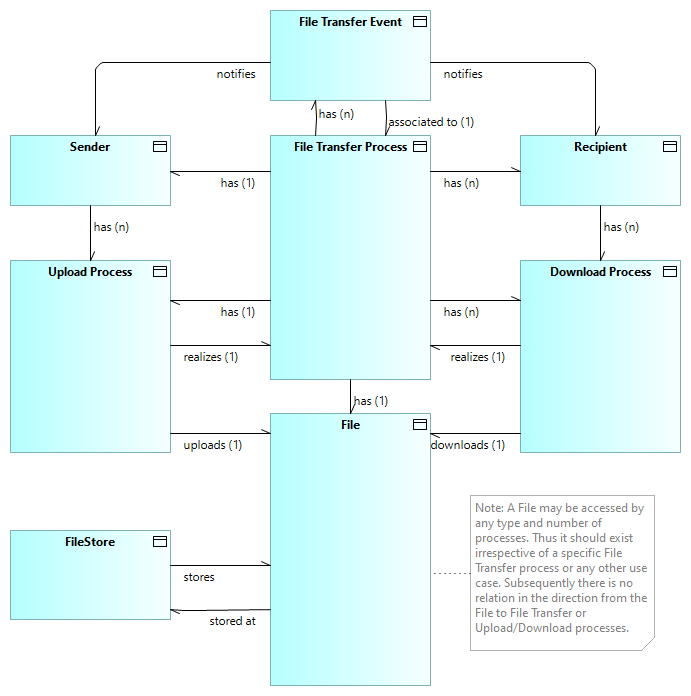
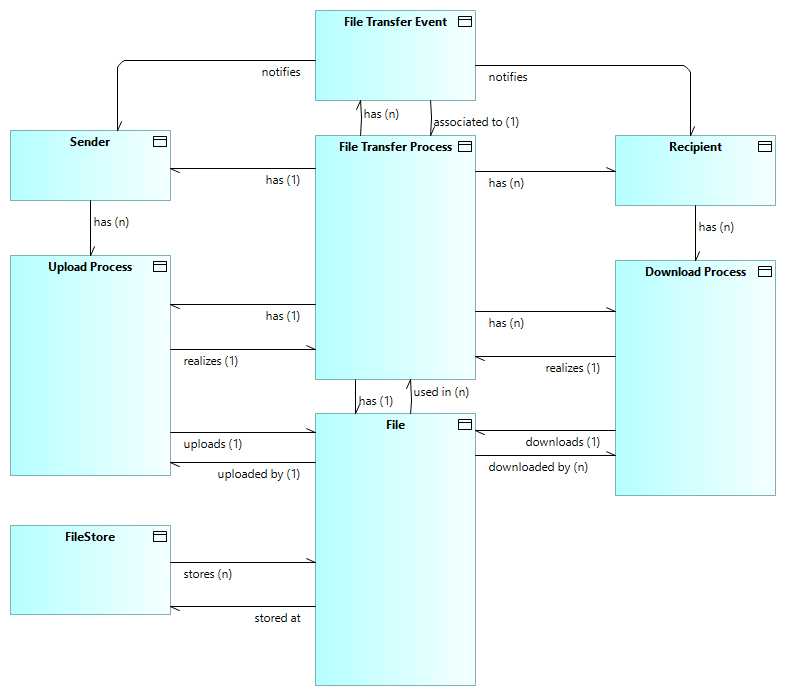
Updated concepts and capabilities chapters

diff --git a/content/broker/10. Concepts/_index.en.md b/content/broker/10. Concepts/_index.en.md
@@ -27,43 +27,45 @@ Explanation to the diagram:
 
 ## Conceptual information model
 
-A high level conceptual information model for Altinn 3 Broker is shown in the following figure:
+A high level conceptual information model for Altinn 3 Broker is shown in the below figure. This model is used as basis for the more detailed imformation model of Altinn Broker _Metadata Storage_.
 
 {{< figure src="./Altinn 3 Broker Metadata - basic, conceptual.png" title="Figure: Conceptual information model" alt="Alt-text">}}
 
 Explanation:
 
-* The overall File Transfer Process includes exactly one Upload Process by a Sender and one or more Download Processes by one or more Recipients.
-* A File Transfer considers one file only.
-* ... TBD
-
-
+* The overall File Transfer Process includes exactly one Upload Process by a Sender and one or more Download Processes corresponding to the number of Recipients.
+* Each File Transfer Process considers one File only. The same applies for each Upload Process and Download Process. 
+* The same File may be used in several File Transfer Processes and consequently in several Download Processes.
+* Only one Upload Process per File is considered. Note that if the same file is uploaded more than once, Altinn Broker will  consider the files as different and assign different identifiers.
+* Notifications about File Transfer Events are given to Senders and Recepients depending on subscription setup. E.g. recepients may be notified about new messages, and senders may be notified about delivery events. 
+* Each File Transfer Event relates to one File Transfer Process, and consequently only one File, however any number of events may occur for the same File Transfer Process.
 
 
 ## Terms
 
 The following table gives brief descriptions of the main terms used to describe
-Altinn 3 Broker. Also see <https://data.norge.no/concepts>.
+Altinn 3 Broker. Also see https://docs.altinn.studio/technology/terms/ and <https://data.norge.no/concepts>.
 
 | **Term**                       | **Explanation**                                                                                                                                                                                                                                          |
 |--------------------------------|----------------------------------------------------------------------------------------------------------------------------------------------------------------------------------------------------------------------------------------------------------|
 | Broker                         | A 'broker' facilitates transactions, negotiations, or agreements between two parties, such as buyers and sellers, or providers and consumers. |
-| Data Consumer                  | A 'data consumer' is an individual or system that uses data provided by data sources or services.                                                                                                                                                                                                                                                      |
+| Data Consumer                  | A 'data consumer' is an individual or system that uses data provided by data sources or services. Also see 'recepient.
 | Data Holder                    | ‘Data holder’ means a legal person, including public sector bodies and international organisations, or a natural person who is not a data subject with respect to the specific data in question, which, in accordance with applicable law, has the right to grant access to or to share certain personal data or non-personal data. |
-| Data Provider                  | A 'data provider' is an entity that supplies or grants access to data. |
+| Data Provider                  | A 'data provider' is an entity that supplies or grants access to data.  Also see 'sender. |
 | Document                       | A 'document' refers to any form of recorded content, whether in digital or paper format, used to communicate, store, or present information, ranging from text and images to diagrams and multimedia. It serves various purposes, including legal evidence, historical records, educational material, or business transactions, facilitating the sharing and preservation of knowledge.                                                                                                                                                                                                                                                      |
 | End user                       | An 'end user' is the final consumer of the services in questions, typically human users through a graphical user interface (GUI).  |
 | End user system                | An 'end user system' provides the services and user interface for end users. |
 | File                           | A digital container used to store, manage, and manipulate data on a computer system or network. It can consist of text, images, audio, video, or other types of data, and is typically organized within a file system that allows for easy retrieval and access. |
 | File transfer                  | The process of moving or copying data over a computer network or through data storage devices.                                                                                                                                                                                                                                                      |
-| File transfer broker           | A 'File transfer broker' is a system or service that acts as an intermediary to facilitate the secure and efficient exchange of files between different parties or systems. |
+| File transfer broker           | A 'file transfer broker' is a system or service that acts as an intermediary to facilitate the secure and efficient exchange of files between different parties or systems. Also see 'message broker'. |
 | Intermediary                   | An 'intermediary' is an entity that acts as a middleman or mediator between two parties in a transaction or communication process. |
-| Managed File Transfer (MFT)    | 'Managed File Transfer' is a solution or service that facilitates and manages the secure transfer of data between systems. It provides a more reliable and secure alternative to traditional file transfer methods, by ensuring the encryption of data in transit and at rest, and offering better management and monitoring capabilities. |
-| Message Broker                 | A solution or service that enables communication between different applications by translating and routing messages. |
+| Managed File Transfer (MFT)    | 'Managed file transfer' is a solution or service that facilitates and manages the secure transfer of data between systems. It provides a more reliable and secure alternative to traditional file transfer methods, by ensuring the encryption of data in transit and at rest, and offering better management and monitoring capabilities. |
+| Message Broker                 | A ‘message broker’ is a system or service that acts as an intermediary to facilitate message exchange between different parties or systems. |
 | On-premise                     | 'On-premise' means installation and operation of software and technology infrastructure directly within an organization's physical facilities, rather than hosted remotely or in the cloud. |
 | Process                        | A series of actions or steps taken to achieve a particular end.                                                                                                                                                                                                                                                      |
-| Recipient                      | An individual or entity that receives a message, package, or service from a sender. |
-| Sender                         | An individual or entity that initiates the transmission of a message or data to one or more recipients. |
+| Recipient                      | An individual or entity that receives a message, package, or service from a sender. Also see Data Consumer. |
+| Sender                         | An individual or entity that initiates the transmission of a message or data to one or more recipients. Also see Data Provider. |
+| Service Owner                  | In the context of Altinn, a 'service owner' refers to an entity responsible for the development, management, and maintenance of a particular service within the Altinn platform.  |
 | User Journey                   | A 'user journey' is a visual or narrative representation of a user's interactions with a product or service from start to finish. |
 
 <!--

diff --git a/content/broker/20. Capabilities/_index.en.md b/content/broker/20. Capabilities/_index.en.md
@@ -10,12 +10,17 @@ weight: 15
 
 ## Value stream analysis
 
-Description TBD...
+The following value stream model indicates how the required capabilities and features of Altinn Broker matches the needs and requirements of the users, i.e. data providers (senders) and data consumers (recepients) respectively.
 
+<!--
 [{{< figure src="./image3.png" title="Figure 3: ..." alt="Alt-text">}}](https://altinn.github.io/ark/models/archi-all/?view=id-10895c7502b84511bb272d77e91ecb00)
+-->
 
+[{{< figure src="./Altinn 3 Broker value streams, high level.png" title="Figure 3: ..." alt="Alt-text">}}](https://altinn.github.io/ark/models/archi-all/?view=id-10895c7502b84511bb272d77e91ecb00)
 
-## High-level summary of capabilities
+Altinn 3 Broker value streams, high level
+
+## High-level system capabilities
 
 Description: TBD
 
